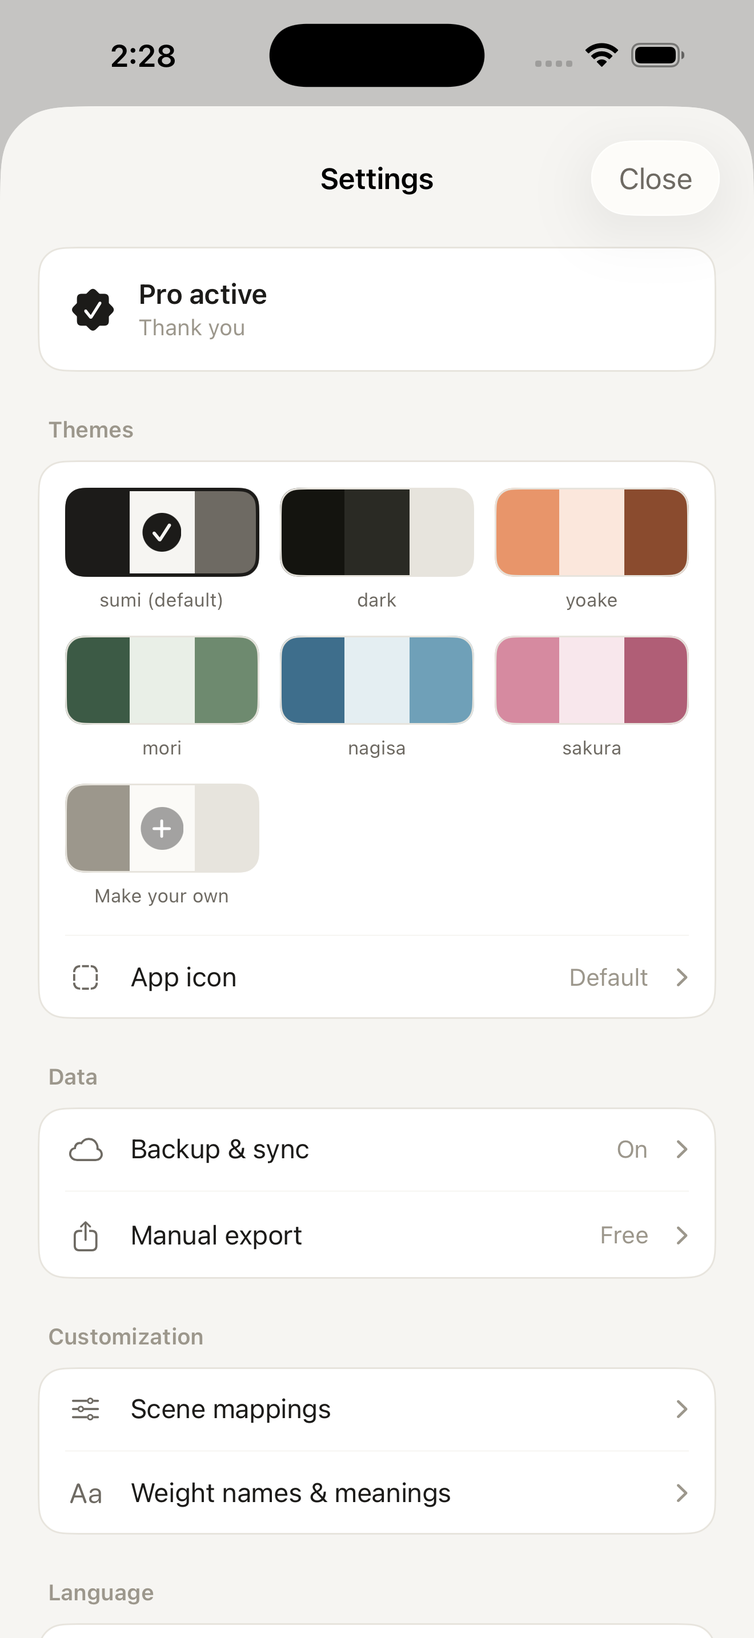
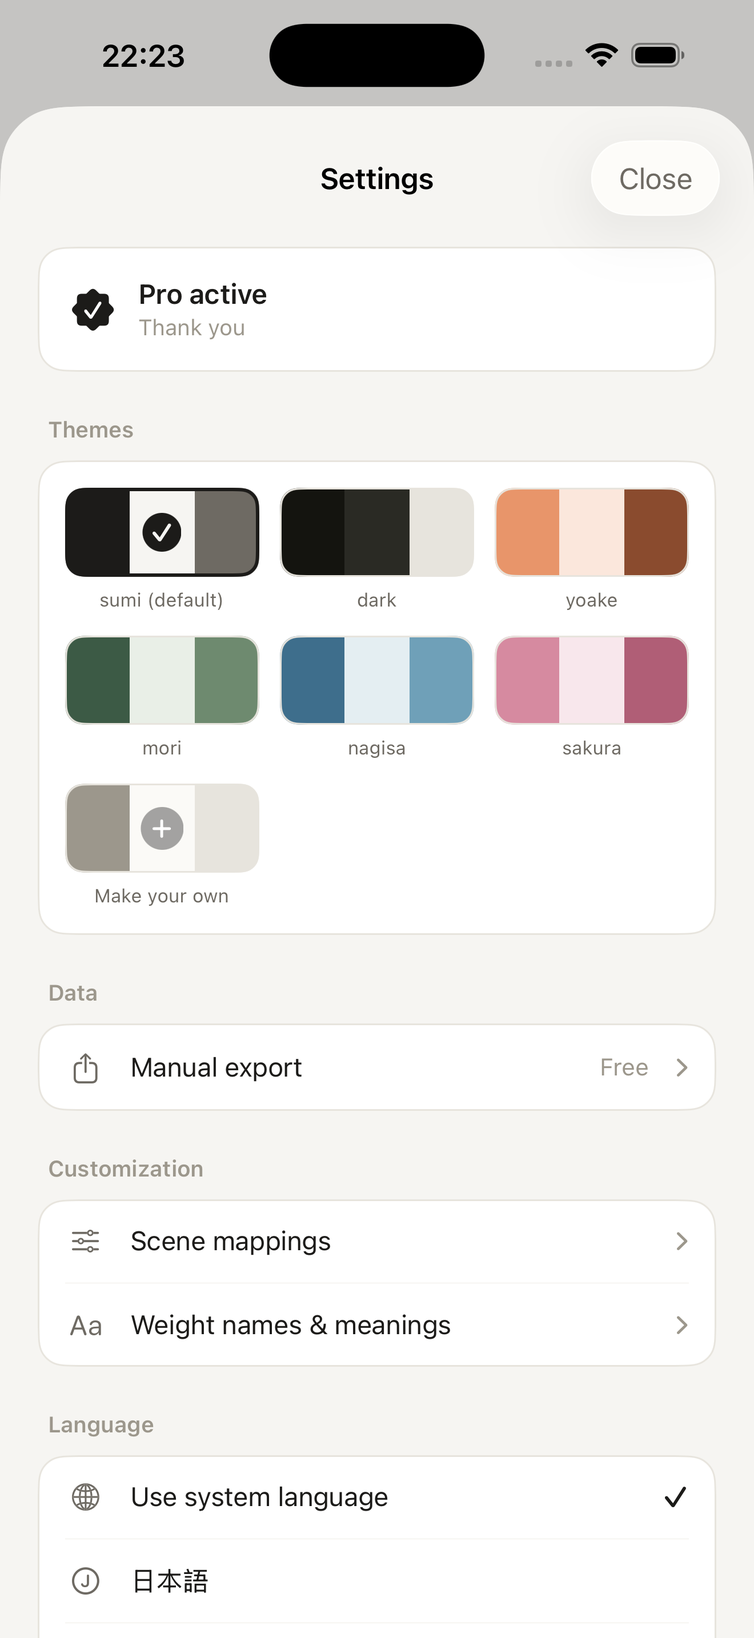
リリース反映: LPの「近日公開」を解消しApp Store導線を追加＋ポリシー/FAQを実態に修正
LP（v2 = pocket-todo.netlify.app / ルート = GitHub Pages）:
- ヒーローと終盤の事前登録フォームを「App Store で入手」ボタンに置換
  （id6776480131）。6月にリリース済みなのに未発売として告知していた状態を解消
- 「App Store、近日公開。」→「App Store で、公開中。」
- OGP/Twitterカードの説明文から「近日公開・事前登録受付中」を除去
- 不要になった waitlist.js の読み込みを削除
- Pages版ルート/EN版の「公開準備中」「Coming soon」もApp Storeリンク化
  （a.pill のスタイルを追加）

ポリシー/FAQ（作業中だった変更を同梱）:
- privacy: RevenueCat による購入検証を明記、未実装の「iCloud同期（将来機能）」を削除
- FAQ: 端末間の自動引き継ぎは無い旨を正確に記載
- App Store用スクリーンショット（6.5インチ）を追加

Claude-Session: https://claude.ai/code/session_01CrjLmaxEJatNaEeDtpUk7x

diff --git a/v2/index.html b/v2/index.html
@@ -18,7 +18,7 @@
 <meta property="og:site_name" content="ポケットToDo">
 <meta property="og:locale" content="ja_JP">
 <meta property="og:title" content="ポケットToDo — 小タスク専用のToDoアプリ">
-<meta property="og:description" content="移動中、寝る前。いま手をつけられる軽さのタスクだけが、そっと出てくる。通知で急かさない、静かなiOSのToDo。近日公開・事前登録受付中。">
+<meta property="og:description" content="移動中、寝る前。いま手をつけられる軽さのタスクだけが、そっと出てくる。通知で急かさない、静かなiOSのToDo。App Store で公開中・無料。">
 <meta property="og:image" content="https://pocket-todo.netlify.app/og.png">
 <meta property="og:image:width" content="1200">
 <meta property="og:image:height" content="630">
@@ -26,7 +26,7 @@
 <meta name="twitter:card" content="summary_large_image">
 <meta name="twitter:site" content="@bon_dev_">
 <meta name="twitter:title" content="ポケットToDo — 小タスク専用のToDoアプリ">
-<meta name="twitter:description" content="移動中、寝る前。いま手をつけられる軽さのタスクだけが、そっと出てくる。近日公開・事前登録受付中。">
+<meta name="twitter:description" content="移動中、寝る前。いま手をつけられる軽さのタスクだけが、そっと出てくる。App Store で公開中・無料。">
 <meta name="twitter:image" content="https://pocket-todo.netlify.app/og.png">
 </head>
 <body>
@@ -47,19 +47,11 @@
       <p class="lead settle" data-settle>
         移動中、寝る前。いま手をつけられる<br>軽さのタスクだけが、そっと出てくる。
       </p>
-      <form class="hero-cta wl-form" id="waitlist" name="waitlist" method="POST"
-            action="https://pocket-todo.netlify.app/" data-netlify="true" netlify-honeypot="bot-field"
-            data-thanks="wlThanks" data-rise>
-        <input type="hidden" name="form-name" value="waitlist">
-        <p class="bot-field"><label>このフィールドは記入しないでください<input name="bot-field" tabindex="-1" autocomplete="off"></label></p>
-        <div class="wl-row">
-          <input type="email" name="email" placeholder="メールアドレス" required aria-label="メールアドレス">
-          <button type="submit" class="cta-btn">公開を知らせてもらう</button>
-        </div>
-        <p class="cta-sub">App Store 近日公開　・　無料　・　お知らせだけ、売り込みはしません</p>
-        <p class="cta-alt">メールの代わりに <a href="https://x.com/bon_dev_" target="_blank" rel="noopener">X（@bon_dev_）でも受け取れます</a></p>
-      </form>
-      <p class="wl-thanks" id="wlThanks" role="status" hidden>登録ありがとうございます。<br>公開したら、いちばんにお知らせします。</p>
+      <div class="hero-cta" data-rise>
+        <a class="cta-btn" href="https://apps.apple.com/jp/app/id6776480131" target="_blank" rel="noopener">App Store で入手</a>
+        <p class="cta-sub">無料　・　iPhone 対応　・　アカウント登録なし</p>
+        <p class="cta-alt">つくっている人は <a href="https://x.com/bon_dev_" target="_blank" rel="noopener">X（@bon_dev_）</a></p>
+      </div>
       <div class="hero-phone" data-rise>
         <div class="phone"><img src="assets/scene-ido.jpg" alt="ポケットToDo ホーム画面" loading="eager" fetchpriority="high" width="320" height="693"></div>
       </div>
@@ -157,7 +149,6 @@
             <li>4テーマ追加＋オリジナル配色3つ</li>
             <li>テーマ連動アイコン</li>
             <li>重さの呼び名と意味のカスタマイズ</li>
-            <li>iCloud同期（順次提供）</li>
           </ul>
         </div>
       </div>
@@ -170,9 +161,9 @@
       <h2 class="sr-only">よくある質問</h2>
       <p class="mark settle" data-settle>—  questions  —</p>
       <div class="qa" data-rise>
-        <div class="q"><p class="qq mincho">データはどこに？</p><p class="qa-a">すべて端末内に。サーバーには送られません。アカウントもログインも不要です。</p></div>
+        <div class="q"><p class="qq mincho">データはどこに？</p><p class="qa-a">タスクは端末内に。開発者のサーバーには送りません（購入の検証のみ Apple／RevenueCat を利用）。アカウントもログインも不要です。</p></div>
         <div class="q"><p class="qq mincho">通知は来る？</p><p class="qa-a">来ません。急かさない設計のため、通知機能を意図的に持っていません。</p></div>
-        <div class="q"><p class="qq mincho">機種変したら？</p><p class="qa-a">無料版はCSVで書き出して取り込み。Pro版はiCloud同期に順次対応します。</p></div>
+        <div class="q"><p class="qq mincho">機種変したら？</p><p class="qa-a">データは端末内に保存されます。今のところ、端末をまたぐ自動引き継ぎはありません（CSVで書き出して記録を残すことはできます）。</p></div>
         <div class="q"><p class="qq mincho">Proの解約は？</p><p class="qa-a">iPhoneの設定 → サブスクリプションから。解約してもデータは消えません。</p></div>
       </div>
     </div>
@@ -190,21 +181,10 @@
       <p class="goodnight mincho" id="goodnight">今日の光は、ここまで。<br>続きは、また明日のポケットに。</p>
 
       <div class="night-cta" id="nightCta">
-        <p class="cta-lead mincho">App Store、近日公開。</p>
-        <p class="made">公開したら、いちばんにお知らせします。</p>
-        <form class="wl-form" id="waitlistEnd" name="waitlist" method="POST"
-              action="https://pocket-todo.netlify.app/" data-netlify="true" netlify-honeypot="bot-field"
-              data-thanks="wlThanksEnd">
-          <input type="hidden" name="form-name" value="waitlist">
-          <p class="bot-field"><label>このフィールドは記入しないでください<input name="bot-field" tabindex="-1" autocomplete="off"></label></p>
-          <div class="wl-row">
-            <input type="email" name="email" placeholder="メールアドレス" required aria-label="メールアドレス">
-            <button type="submit" class="cta-btn">公開を知らせてもらう</button>
-          </div>
-          <p class="cta-sub">無料　・　お知らせだけ、売り込みはしません</p>
-        </form>
-        <p class="wl-thanks" id="wlThanksEnd" role="status" hidden>登録ありがとうございます。<br>公開したら、いちばんにお知らせします。</p>
-        <p class="cta-alt">メールの代わりに <a href="https://x.com/bon_dev_" target="_blank" rel="noopener">X（@bon_dev_）でも受け取れます</a></p>
+        <p class="cta-lead mincho">App Store で、公開中。</p>
+        <a class="cta-btn" href="https://apps.apple.com/jp/app/id6776480131" target="_blank" rel="noopener">App Store で入手</a>
+        <p class="cta-sub">無料　・　iPhone 対応　・　アカウント登録なし</p>
+        <p class="cta-alt">つくっている人は <a href="https://x.com/bon_dev_" target="_blank" rel="noopener">X（@bon_dev_）</a></p>
         <p class="fine made-by">ひとりで作っています。</p>
       </div>
     </div>
@@ -220,7 +200,6 @@
 <script src="js/breathe.js" defer></script>
 <script src="js/time.js" defer></script>
 <script src="js/reveal.js" defer></script>
-<script src="js/waitlist.js" defer></script>
 <!-- Cloudflare Web Analytics（pocket-todo.netlify.app と同じトークン＝引っ越しても計測継続） -->
 <script defer src='https://static.cloudflareinsights.com/beacon.min.js' data-cf-beacon='{"token": "b58835a4bdcc40d989df7d2155df9a05"}'></script>
 </body>

diff --git a/privacy.html b/privacy.html
@@ -26,19 +26,17 @@
 
   <h2>収集する情報</h2>
   <p><strong>本アプリは、お客様の個人情報を一切収集しません。</strong></p>
-  <p>タスク・設定・テーマ・カスタム配色を含むすべてのデータは、お客様の端末内（オンデバイス）にのみ保存され、開発者や第三者のサーバーに送信されることはありません。アカウント登録もログインも不要です。</p>
+  <p>タスク・設定・テーマ・カスタム配色といったお客様のコンテンツは、端末内（オンデバイス）にのみ保存され、開発者や第三者のサーバーに送信されることはありません。アカウント登録もログインも不要です。（購入処理のみ例外です。下記「App内課金」をご覧ください。）</p>
 
   <h2>第三者への提供</h2>
-  <p>本アプリは、お客様のデータを第三者に提供しません。データを共有・販売・賃貸する仕組みは存在しません。</p>
+  <p>本アプリは、お客様のタスク・設定などのコンテンツを第三者に提供・共有・販売・賃貸しません。唯一の例外は購入処理で、サブスク／買い切りの検証のため Apple と RevenueCat が購入データを扱います（匿名・個人を特定しません。下記「App内課金」参照）。</p>
 
   <h2>解析・トラッキング・広告</h2>
   <p>本アプリは、Google Analytics、Firebase、Adjust 等の解析・行動測定 SDK を一切組み込んでいません。広告 SDK も使用していません。識別子（IDFA / IDFV）への参照も行いません。</p>
 
   <h2>App内課金（Pro機能）について</h2>
-  <p>Pro 機能のサブスクリプション・買い切りの決済処理は、すべて Apple の App Store／StoreKit を通じて行われます。決済情報・カード情報・購入履歴は Apple が管理し、本アプリの開発者はそれらにアクセスできません。詳細は <a href="https://www.apple.com/legal/privacy/" target="_blank" rel="noopener">Apple のプライバシーポリシー</a> をご確認ください。</p>
-
-  <h2>iCloud 同期（将来機能）について</h2>
-  <p>将来的に提供を予定している iCloud 同期機能を利用する場合、お客様のタスクデータは Apple の iCloud にお客様の Apple ID 配下で暗号化保存されます。本アプリの開発者は当該データを参照できません。利用は任意であり、設定で個別にオン／オフできるようにする予定です。</p>
+  <p>Pro 機能のサブスクリプション・買い切りの決済は、Apple の App Store／StoreKit を通じて行われます。カード情報・決済情報は Apple が管理し、本アプリの開発者はアクセスできません。</p>
+  <p>購入状態の管理とレシート検証には、第三者サービス <a href="https://www.revenuecat.com/privacy" target="_blank" rel="noopener">RevenueCat</a> を利用しています。RevenueCat は購入・購読の履歴を<strong>匿名の識別子</strong>に紐づけて処理します（氏名・メールアドレス等の個人情報は送信しません）。これにより、購入の復元や、匿名での売上集計が可能になります。詳細は <a href="https://www.apple.com/legal/privacy/" target="_blank" rel="noopener">Apple</a> および <a href="https://www.revenuecat.com/privacy" target="_blank" rel="noopener">RevenueCat</a> のプライバシーポリシーをご確認ください。</p>
 
   <h2>未成年の利用について</h2>
   <p>本アプリは個人情報を収集しないため、年齢に関わらず安心してお使いいただけます。</p>
@@ -49,7 +47,7 @@
   <h2>お問い合わせ</h2>
   <p>本ポリシーに関するお問い合わせは、<a href="support.html">サポートページ</a>からご連絡ください。</p>
 
-  <p class="fine" style="margin-top:40px">最終更新日: 2026年5月28日</p>
+  <p class="fine" style="margin-top:40px">最終更新日: 2026年6月4日</p>
 </main>
 
 <footer class="site">

diff --git a/en/privacy.html b/en/privacy.html
@@ -26,19 +26,17 @@
 
   <h2>Information We Collect</h2>
   <p><strong>We do not collect any personal information.</strong></p>
-  <p>All data — including tasks, settings, themes, and custom palettes — is stored only on your device (on-device). It is never sent to the developer or any third-party server. No account or sign-in is required.</p>
+  <p>Your content — tasks, settings, themes, and custom palettes — is stored only on your device (on-device) and is never sent to the developer or any third-party server. No account or sign-in is required. (Purchase processing is the only exception — see "In-App Purchases" below.)</p>
 
   <h2>Sharing with Third Parties</h2>
-  <p>We do not share, sell, lease, or transfer your data to third parties. There is no mechanism in the App to do so.</p>
+  <p>We do not share, sell, lease, or transfer your task and settings content to third parties. The only exception is purchase processing: as described under "In-App Purchases" below, Apple and RevenueCat handle purchase data (anonymously, without identifying you).</p>
 
   <h2>Analytics, Tracking, and Advertising</h2>
   <p>The App does not embed any analytics or behavioral-measurement SDKs such as Google Analytics, Firebase, or Adjust. No advertising SDKs are present. The App does not reference IDFA or IDFV.</p>
 
   <h2>In-App Purchases (Pro Features)</h2>
-  <p>All payment processing for Pro subscriptions and the one-time purchase is handled by Apple's App Store and StoreKit. Payment details, card information, and purchase history are managed by Apple. The developer of this App has no access to them. Please see <a href="https://www.apple.com/legal/privacy/" target="_blank" rel="noopener">Apple's Privacy Policy</a> for details.</p>
-
-  <h2>iCloud Sync (Future Feature)</h2>
-  <p>The App plans to offer iCloud sync as a future Pro feature. If you choose to use it, your task data will be stored on Apple's iCloud, encrypted under your Apple ID. The developer of this App cannot access that data. Use will be optional, with on/off controls in Settings.</p>
+  <p>Payment for Pro subscriptions and the one-time purchase is handled by Apple's App Store and StoreKit. Card and payment details are managed by Apple; the developer has no access to them.</p>
+  <p>Purchase state management and receipt validation are handled by a third-party service, <a href="https://www.revenuecat.com/privacy" target="_blank" rel="noopener">RevenueCat</a>. RevenueCat processes your purchase and subscription history linked to an <strong>anonymous identifier</strong> (no name, email, or other personal information is sent). This enables purchase restoration and anonymous revenue aggregation. See the privacy policies of <a href="https://www.apple.com/legal/privacy/" target="_blank" rel="noopener">Apple</a> and <a href="https://www.revenuecat.com/privacy" target="_blank" rel="noopener">RevenueCat</a> for details.</p>
 
   <h2>Use by Minors</h2>
   <p>Because the App does not collect any personal information, it can be used safely regardless of age.</p>
@@ -49,7 +47,7 @@
   <h2>Contact</h2>
   <p>For any questions about this policy, please reach out via our <a href="support.html">Support page</a>.</p>
 
-  <p class="fine" style="margin-top:40px">Last updated: May 29, 2026</p>
+  <p class="fine" style="margin-top:40px">Last updated: June 4, 2026</p>
 </main>
 
 <footer class="site">

diff --git a/support.html b/support.html
@@ -33,13 +33,13 @@
   <h2>よくある質問</h2>
 
   <h3>データはどこに保存されますか？</h3>
-  <p>すべて端末内（オンデバイス）に保存されます。開発者のサーバーや第三者には一切送信されません。詳しくは <a href="privacy.html">プライバシーポリシー</a> をご覧ください。</p>
+  <p>タスク・設定などはすべて端末内（オンデバイス）に保存され、開発者のサーバーには送信されません。例外は購入処理のみで、Apple と RevenueCat が購入データを匿名で扱います。詳しくは <a href="privacy.html">プライバシーポリシー</a> をご覧ください。</p>
 
   <h3>機種変更したらデータは引き継がれますか？</h3>
-  <p>無料版では、「手動エクスポート」（CSV形式）からデータを書き出し、新しい端末で取り込んでいただけます。Pro 版では iCloud 同期に順次対応予定で、ログインなしで複数台に自動同期されます。</p>
+  <p>データは端末内に保存されます。今のところ、端末をまたぐ自動引き継ぎはありません（CSVで書き出して記録を残すことはできます）。</p>
 
   <h3>無料版と Pro 版の違いは？</h3>
-  <p>無料版でも入力・場面切替・場面ごとの出し分けカスタマイズ・手動エクスポート・標準＋ダークの 2 テーマは使えます。Pro 版では「全期間の履歴」「iCloud 同期（順次対応）」「カラーテーマ追加＋自分で作るオリジナル配色」「重さの呼び名と意味のカスタマイズ」が解放されます。</p>
+  <p>無料版でも入力・場面切替・場面ごとの出し分けカスタマイズ・手動エクスポート・標準＋ダークの 2 テーマは使えます。Pro 版では「全期間の履歴」「カラーテーマ追加＋自分で作るオリジナル配色」「重さの呼び名と意味のカスタマイズ」が解放されます。</p>
 
   <h3>Pro を解約したい</h3>
   <p>iPhone の「設定 → [自分の名前] → サブスクリプション」から、ポケットToDo を選んで解約できます。解約してもタスクデータは消えません。</p>

diff --git a/index.html b/index.html
@@ -40,7 +40,7 @@
         秒で放り込む、場面で出し分ける、<br>
         小タスク専用 ToDo。
       </p>
-      <span class="pill">App Store 公開準備中</span>
+      <a class="pill" href="https://apps.apple.com/jp/app/id6776480131" target="_blank" rel="noopener">App Store で入手</a>
     </div>
     <div class="hero-phone">
       <div class="phone-frame">
@@ -160,7 +160,6 @@
           <li>4 テーマ追加＋オリジナル配色 3 つ</li>
           <li>テーマに連動するアプリアイコン</li>
           <li>重さの呼び名と意味のカスタマイズ</li>
-          <li>iCloud 同期（順次提供）</li>
         </ul>
       </div>
     </div>
@@ -174,11 +173,11 @@
     <div class="qa-stack">
       <div class="qa-item">
         <h4 class="qa-q">データはどこに保存されますか？</h4>
-        <p class="qa-a">すべて端末内に。サーバーには送られません。アカウント登録もログインも不要です。</p>
+        <p class="qa-a">タスクは端末内に。開発者のサーバーには送りません（購入の検証のみ Apple／RevenueCat を利用）。アカウント登録もログインも不要です。</p>
       </div>
       <div class="qa-item">
         <h4 class="qa-q">機種変したらデータは引き継がれますか？</h4>
-        <p class="qa-a">無料版では「手動エクスポート」(CSV) で書き出して取り込み。Pro 版では iCloud 同期に順次対応します。</p>
+        <p class="qa-a">データは端末内に保存されます。今のところ、端末をまたぐ自動引き継ぎはありません（CSVで書き出して記録を残すことはできます）。</p>
       </div>
       <div class="qa-item">
         <h4 class="qa-q">通知は来ますか？</h4>
@@ -206,7 +205,7 @@
 
   <!-- PHILOSOPHY -->
   <section class="philosophy">
-    <blockquote>失わない、ぜんぶ残る、きせかえる。</blockquote>
+    <blockquote>ぜんぶ残る、好きにきせかえる。</blockquote>
     <p class="fine philosophy-cap">通知なし。リマインドで急かさない設計。</p>
   </section>
 

diff --git a/en/index.html b/en/index.html
@@ -39,7 +39,7 @@
         Drop in fast. Pull out by scene.<br>
         A small-task ToDo for your pocket.
       </p>
-      <span class="pill">Coming soon to the App Store</span>
+      <a class="pill" href="https://apps.apple.com/app/id6776480131" target="_blank" rel="noopener">Get it on the App Store</a>
     </div>
     <div class="hero-phone">
       <div class="phone-frame">
@@ -158,7 +158,6 @@
           <li>4 extra themes + 3 custom palettes</li>
           <li>Home-screen icon follows the theme</li>
           <li>Rename weights — names &amp; meanings</li>
-          <li>iCloud sync (rolling out)</li>
         </ul>
       </div>
     </div>
@@ -172,11 +171,11 @@
     <div class="qa-stack">
       <div class="qa-item">
         <h4 class="qa-q">Where is my data stored?</h4>
-        <p class="qa-a">All on your device. Nothing is sent to a server. No account, no sign-in.</p>
+        <p class="qa-a">Your tasks stay on your device — not sent to our servers (only purchases go through Apple/RevenueCat). No account, no sign-in.</p>
       </div>
       <div class="qa-item">
         <h4 class="qa-q">Does my data carry over when I change phones?</h4>
-        <p class="qa-a">Use "Manual export" (CSV) on Free, and import on the new device. Pro will add iCloud sync soon.</p>
+        <p class="qa-a">Your data is stored on your device. For now, there's no automatic transfer between devices (you can export a CSV to keep a record).</p>
       </div>
       <div class="qa-item">
         <h4 class="qa-q">Are there notifications?</h4>
@@ -204,7 +203,7 @@
 
   <!-- PHILOSOPHY -->
   <section class="philosophy">
-    <blockquote>Don't lose it. Keep it all. Make it yours.</blockquote>
+    <blockquote>Keep it all. Make it yours.</blockquote>
     <p class="fine philosophy-cap">No notifications. Nothing nags you.</p>
   </section>
 

diff --git a/en/support.html b/en/support.html
@@ -33,13 +33,13 @@
   <h2>Frequently Asked Questions</h2>
 
   <h3>Where is my data stored?</h3>
-  <p>All data lives on your device (on-device). Nothing is sent to the developer or any third party. See our <a href="privacy.html">Privacy Policy</a> for details.</p>
+  <p>Your tasks and settings live on your device and are never sent to the developer. The only exception is purchase processing, where Apple and RevenueCat handle purchase data anonymously. See our <a href="privacy.html">Privacy Policy</a> for details.</p>
 
   <h3>Does data carry over when I change my iPhone?</h3>
-  <p>On the free plan, you can use "Manual export" to write data to CSV and import it on the new device. Pro will add iCloud sync (rolling out soon) for automatic, sign-in-free sync across multiple devices.</p>
+  <p>Your data is stored on your device. For now, there's no automatic transfer between devices (you can export a CSV to keep a record).</p>
 
   <h3>What's the difference between Free and Pro?</h3>
-  <p>The free plan includes capture, scene switching, scene-mapping customization, manual export, and the default + dark themes. Pro unlocks: full-history (no 7-day cutoff), iCloud sync (rolling out), additional color themes plus your own custom palettes, and renaming the 4 weights (names and meanings) in your own words.</p>
+  <p>The free plan includes capture, scene switching, scene-mapping customization, manual export, and the default + dark themes. Pro unlocks: full-history (no 7-day cutoff), additional color themes plus your own custom palettes, and renaming the 4 weights (names and meanings) in your own words.</p>
 
   <h3>How do I cancel Pro?</h3>
   <p>Open the iPhone Settings app → [your name] → Subscriptions → PocketToDo. Your task data will remain even after canceling.</p>

diff --git a/styles.css b/styles.css
@@ -807,3 +807,7 @@ footer.site a:hover { color: var(--ink); text-decoration: underline; }
   font-size: 12.5px;
   letter-spacing: 0.02em;
 }
+
+/* App Store CTA: pill をリンク化（2026-08-16 リリース反映） */
+a.pill { text-decoration: none; transition: opacity .2s; }
+a.pill:hover { opacity: .75; }
